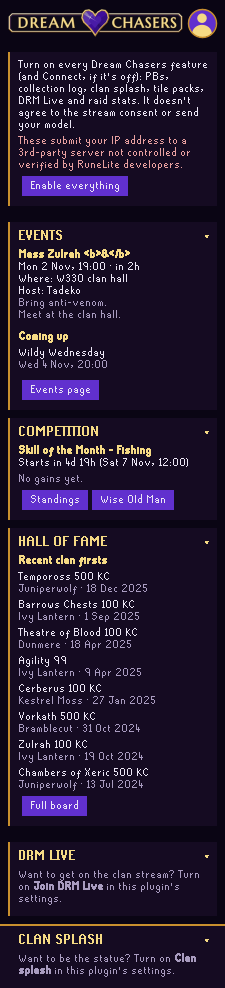
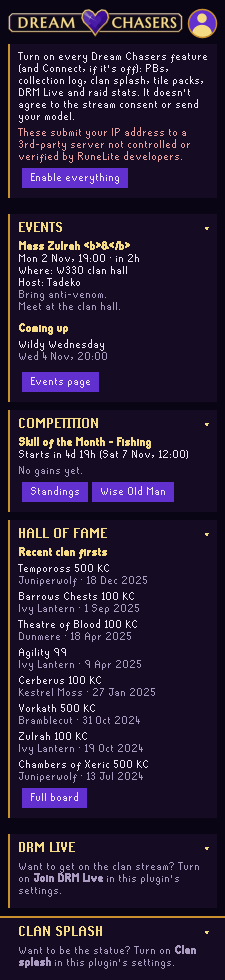
Dream Chasers Clan 0.5.4: the roster sync line moves to the player menu

diff --git a/src/main/java/cc/dreamchasers/clan/ui/DreamChasersPanel.java b/src/main/java/cc/dreamchasers/clan/ui/DreamChasersPanel.java
@@ -97,7 +97,7 @@ public class DreamChasersPanel extends PluginPanel
 	/** The player button in the header's top right corner, like the site's account icon. */
 	static final int PLAYER_SIZE = 30;
 	/**
-	 * The content sections, top down, under the hint lines (roster, Enable
+	 * The content sections, top down, under the hint lines (Enable
 	 * everything, the collection log hint). The clan splash is not in it: it sits under them all, at the
 	 * bottom of the panel, as wide as the panel.
 	 */
@@ -194,7 +194,6 @@ public class DreamChasersPanel extends PluginPanel
 
 	/** The one status line under the header: the sign-in wait or answer, a hint, or a refresh failure. */
 	private final JLabel status = new JLabel();
-	private final JPanel roster = section();
 	private final JPanel everything = section();
 	private final JPanel clogHint = section();
 	private final JPanel live = section();
@@ -216,7 +215,7 @@ public class DreamChasersPanel extends PluginPanel
 	private ApiResult<CompetitionResponse> competitionResult;
 	private ApiResult<HallOfFameResponse> hallOfFameResult;
 	private ApiResult<LinksResponse> linksResult;
-	/** Officer roster sync's one line; null hides it. */
+	/** Officer roster sync's one line, shown greyed out in the player menu; null leaves it out. */
 	private String rosterLine;
 	// sign in / verify for Discord (verified join), from the player menu
 	private String verifyBlocker = cc.dreamchasers.clan.OwnClan.LOGGED_OUT_BLOCKER;
@@ -290,7 +289,6 @@ public class DreamChasersPanel extends PluginPanel
 		status.setAlignmentX(Component.LEFT_ALIGNMENT);
 		content.add(status);
 		content.add(Box.createVerticalStrut(6));
-		roster.setName("section:roster");
 		everything.setName("section:everything");
 		clogHint.setName("section:clogHint");
 		events.setName("section:events");
@@ -299,7 +297,7 @@ public class DreamChasersPanel extends PluginPanel
 		tiles.setName("section:tiles");
 		live.setName("section:live");
 		// the hint lines first (each only when it has something to say), then SECTION_ORDER
-		for (JPanel p : new JPanel[]{roster, everything, clogHint, events, competition, hallOfFame, tiles, live})
+		for (JPanel p : new JPanel[]{everything, clogHint, events, competition, hallOfFame, tiles, live})
 		{
 			content.add(p);
 			content.add(Box.createVerticalStrut(8));
@@ -549,7 +547,6 @@ public class DreamChasersPanel extends PluginPanel
 		onEdt(() ->
 		{
 			rosterLine = line;
-			renderRoster();
 		});
 	}
 
@@ -829,7 +826,6 @@ public class DreamChasersPanel extends PluginPanel
 	{
 		renderHeader();
 		renderStatus();
-		renderRoster();
 		renderEverything();
 		clogHint.setVisible(clogHint.getComponentCount() > 0);
 		renderLive();
@@ -895,6 +891,13 @@ public class DreamChasersPanel extends PluginPanel
 		if (connected && !verifyBusy && verifyWaitCode == null)
 		{
 			menu.add(menuItem("Enter a code from the site…", this::enterCode));
+		}
+		String roster = rosterLine;
+		if (roster != null)
+		{
+			// officer roster sync's state: information only, so greyed out; the site's own messages already end in a full stop
+			boolean ended = roster.endsWith(".") || roster.endsWith("!") || roster.endsWith("?");
+			menu.add(greyed(roster + (ended ? "" : ".")));
 		}
 		menu.addSeparator();
 		// the server invite, from /links; before links load, the join page (it has the invite too)
@@ -1156,21 +1159,6 @@ public class DreamChasersPanel extends PluginPanel
 	private void openJoinPage()
 	{
 		go(linkOr(LinksResponse::getSite, SITE) + "/join", safeLinks.site());
-	}
-
-	/** Officer roster sync: one muted line under the status line, only when the plugin gives one. */
-	private void renderRoster()
-	{
-		roster.removeAll();
-		String line = rosterLine;
-		roster.setVisible(line != null);
-		if (line != null)
-		{
-			// the site's own messages already end in a full stop
-			boolean ended = line.endsWith(".") || line.endsWith("!") || line.endsWith("?");
-			roster.add(text(esc(line) + (ended ? "" : "."), Brand.MUTED));
-		}
-		done(roster);
 	}
 
 	/**

diff --git a/src/test/java/cc/dreamchasers/clan/ui/DreamChasersPanelTest.java b/src/test/java/cc/dreamchasers/clan/ui/DreamChasersPanelTest.java
@@ -472,7 +472,7 @@ public class DreamChasersPanelTest
 		panel.setTilesEnabled(true);
 		panel.setLiveEnabled(true);
 		flush();
-		assertEquals(List.of("roster", "everything", "clogHint",
+		assertEquals(List.of("everything", "clogHint",
 			"events", "competition", "halloffame", "tiles", "live", "splash"), sectionNames(panel));
 		assertEquals(List.of("events", "competition", "halloffame", "tiles", "live"), DreamChasersPanel.SECTION_ORDER);
 
@@ -987,32 +987,24 @@ public class DreamChasersPanelTest
 	}
 
 	@Test
-	public void rosterLineShowsOnlyWhenGiven() throws Exception
+	public void rosterSyncIsALineInThePlayerMenuNotTheSidebar() throws Exception
 	{
 		DreamChasersPanel panel = newPanel(new Calls());
 		panel.setConnected(true);
 		panel.setSignedInAs("Tadeko");
 		flush();
-		assertFalse(allText(panel).contains("Roster"));
+		assertFalse(menuLabels(panel).stream().anyMatch(l -> l.contains("Roster")));
 		panel.setRosterStatus("Roster sent 12:34: 2 added, 1 rank changed");
 		flush();
-		assertTrue(allText(panel).contains("Roster sent 12:34: 2 added, 1 rank changed."));
-		snapshot(panel, "roster");
-		panel.setRosterStatus("Roster sync stopped: <b>Not an officer</b>");
-		flush();
-		assertTrue("site text is escaped", allText(panel).contains("Roster sync stopped: &lt;b&gt;Not an officer&lt;/b&gt;."));
+		assertFalse("never in the sidebar", allText(panel).contains("Roster"));
+		assertTrue(menuLabels(panel).contains("~Roster sent 12:34: 2 added, 1 rank changed."));
 		panel.setRosterStatus("Roster sync stopped: Only officers can sync the roster. Roster sync is off until you log in again.");
 		flush();
-		String stopped = allText(panel);
-		assertTrue(stopped, stopped.contains("you log in again."));
-		assertFalse("no second full stop after the site's own", stopped.contains("again.."));
-		panel.setRosterStatus("Changed again: sending at 12:35");
-		flush();
-		assertTrue(allText(panel).contains("Changed again: sending at 12:35."));
-		snapshot(panel, "roster-waiting");
+		assertTrue("no second full stop after the site's own",
+			menuLabels(panel).contains("~Roster sync stopped: Only officers can sync the roster. Roster sync is off until you log in again."));
 		panel.setRosterStatus(null);
 		flush();
-		assertFalse(allText(panel).contains("Roster"));
+		assertFalse(menuLabels(panel).stream().anyMatch(l -> l.contains("Roster")));
 	}
 
 	private static final String LIVE_JSON = "{\"apiVersion\":1,\"consent\":{\"version\":\"2026-11-01\",\"title\":\"Before you go on stream\","

diff --git a/README.md b/README.md
@@ -165,9 +165,9 @@ reads.
   inside the minute is sent by itself once the minute is up, and the panel
   says when ("Changed again: sending at 12:35"). If the site was busy or
   couldn't be reached, the same list goes once more a minute later.
-- The panel shows one line, like "Roster sent 12:34: 2 added, 1 rank changed".
+- The player menu (top right) shows one greyed-out line, like "Roster sent 12:34: 2 added, 1 rank changed".
   If the site says you're not an officer, the sync stops until you log in
-  again or tick the setting again, and the panel says why.
+  again or tick the setting again, and that line says why.
 
 ### Verify pickup
 
